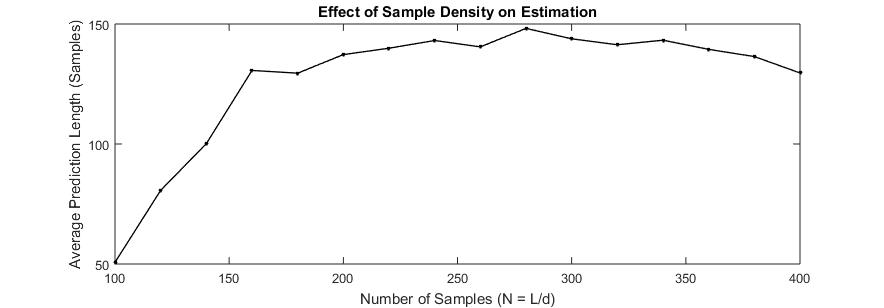
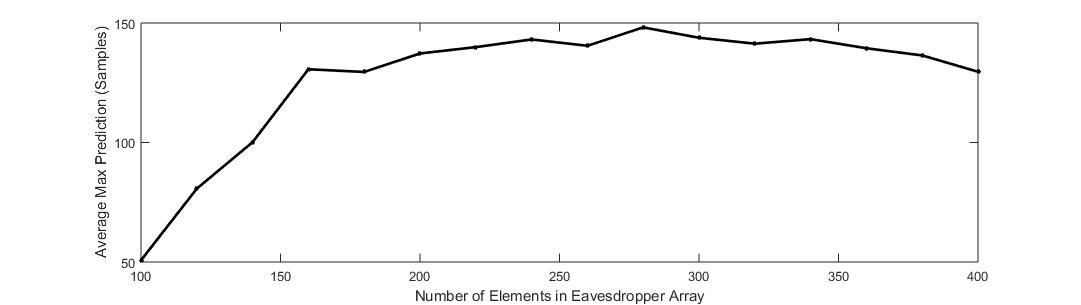
RC 1 for the  paper
Done except for some minor edits. Questions still remain about how the
spacing effects the scenario

diff --git a/PL-Security-Paper.tex b/PL-Security-Paper.tex
@@ -84,7 +84,7 @@ This discussion has provided a lower bound and an upper bound on the mutual info
 %belongs to Eric
 As discussed in Section \ref{mutualinfo}, channel information may persist over distances greater than the correlation length. Therefore, long-range prediction techniques as in \cite{duel-hallen2007} may be applied to predict the channel from spatial samples. Rather than using long-range prediction to predict the channel transfer function ahead temporally as is the typical usage, it is predicted spatially.
 
-It is assumed that the eavesdropper has knowledge of the location of one of the legitimate nodes, and has the ability to take a number of spatial samples along a line in the direction of that node.  Previous literature \cite{duel-hallen2007} has shown that spectral estimation can be applied to a temporal prediction scenario by estimating channel parameters and predicting the channel by constructing a new model of it. In that literature it is shown to be accurate within a Doppler wavelength as long as the channel parameters varied slowly. It is expected that spatial sampling and spectral estimation is a reasonable approach for an eavesdropper to take in estimating the channel at a distance. 
+It is assumed that the eavesdropper has knowledge of the location of one of the legitimate nodes, and has the ability to take a number of spatial samples along a line in the direction of that node.  Previous literature \cite{duel-hallen2007} has shown that spectral estimation can be applied to a temporal prediction scenario by estimating channel parameters and predicting the channel by constructing a new model of it. In experimental implementation with real-world channels, the channel parameters varied slowly enough that this prediction method was accurate within a Doppler wavelength. Therefore, it is a reasonable approach for the eavedropper to reconstruct the channel with parameter estimation using spatial sampling and spectral estimation. 
 
 %In temporal prediction applications, it has been observed that time variation of the amplitudes and frequencies in the sum-of-sinusoids model is on the order of 0.1 seconds \cite{duel-hallen2007}. 
 
@@ -95,9 +95,9 @@ It is assumed that the eavesdropper has knowledge of the location of one of the 
 \end{center}
 \end{figure}
 
-The channel model is shown in Figure \ref{scene}. Alice is the transmitter, and the desired estimation location at Bob. Eve is an array of sample readings taken in line with the listener. Scatterers are represented by the objects between Alice and Bob. It has been observed that most real world channels contain less than 10 large scatterers \cite{duel-hallen2000}. 
+The channel model is shown in Figure \ref{scene}. Alice and Bob are both trancievers. Eve is an eavesdropper sampling array in line with Bob. Scatterers are represented by the objects between Alice and Bob. It has been observed that most real world channels contain less than 10 large scatterers \cite{duel-hallen2000}. 
 
-In the simulation it is assumed that the sender Alice and all the scatterers reside in the far field of the eavesdropper array as well as the desired estimation location. The eavesdropper uses direction of arrival techniques to estimate the amplitudes and spatial frequencies of the scattering paths. Once the eavesdropper estimates the channel parameters, it uses them to reconstruct the channel transfer function. To achieve this an array of samples of length $Md+qd$ is constructed, where $d$ is the spacing between measurements, $M$ is the number of spatial samples, and $q$ is the number of sample lengths ahead the eavesdropper would like to predict. 
+In the simulation it is assumed that the sender Alice and all the scatterers reside in the far field of the eavesdropper array as well as the desired estimation location. The eavesdropper uses direction of arrival techniques to estimate the amplitudes and spatial frequencies of the scattering paths. Once the eavesdropper estimates the channel parameters, it uses them to reconstruct the channel transfer function. To achieve this an array of samples of length $Md$ is constructed, where $d$ is the spacing between measurements, $M$ is the number of spatial samples. The eavesdropper is intending to reconcruct the channel out to a length of $(M+q)d$, where $q$ is the distance between the end of the sampling array and Bob. 
 
 Equation \ref{chan} describes the channel transfer function along the line of eavesdropper samples.
 
@@ -109,22 +109,22 @@ H_m= \sum_{n=1}^N \alpha_n e^{-j(k_n)md}
 
 The solution to the parameter estimation problem can be broken into two parts: estimating the wave numbers $k_n$ , then estimating the complex amplitudes $\alpha_n$. The simulated eavesdropper uses the rootMUSIC algorithm supplied in MATLAB to determine the spatial frequencies of the scattering paths \cite{matlab}. RootMUSIC uses eigenvalue analysis of the channel's correlation matrix to estimate the signal's frequency content. The specific command used takes the sampling results as well as a threshold value which serves to separate the noise subspace from the signal subspace. It then estimates the discrete frequency spectrum, as well as providing the signal power. 
 
-In order to determine complex amplitude we used the method described in \cite{andersen1999}. The spectral estimation algorithm determines the spatial frequency of each scattering path. Constant spatial sampling is used, so (\ref{chan}) is simplified to determine the signal poles $z_n$.
+In order to determine complex amplitude we used the method described in \cite{andersen1999}. The spectral estimation algorithm determines the spatial frequency of each scattering path. Constant spatial sampling is used, so (\ref{chan}) is simplified by substituting the signal poles $z_n$ for the complex exponentials.
 
 \begin{equation}\label{complexamp}
-H_m = \sum_{n=1}^N \alpha_n e^{-j(k_n)md} = \sum_{n=1}^N \alpha_n z_n^m
+h_m = \sum_{n=1}^N \alpha_n e^{-j(k_n)md} = \sum_{n=1}^N \alpha_n z_n^m
 \end{equation}
 
-Based on the estimated values of the signal poles, the complex amplitudes can be derived by solving the following linear equations.
+Based on the estimated values of the signal poles, the complex amplitudes can be derived by solving the following linear equations. $\boldsymbol{A}$ is a Vandermonde matric of signal poles, where the $M^\mathrm{th}$ row contains all the poles raised to the $(M-1)^\mathrm{th}$ power. 
 
 \begin{equation}\label{matrix}
-h = A \alpha
+\mathbf{h} = \mathbf{A \boldsymbol{\alpha}}
 \end{equation}
 
-which is a system of linear equations of complex amplitude $\alpha^T = [\alpha_1, \alpha_2,... ,\alpha_M]$. The estimated complex amplitudes $\hat{\alpha}$ are then found by solving (\ref{matrix}) for $\alpha$ \cite{andersen1999}.
+which is a system of linear equations of complex amplitude $\boldsymbol{\alpha^T} = [\alpha_1, \alpha_2,... ,\alpha_M]$. The estimated complex amplitudes $\hat{\alpha}$ are then found by solving (\ref{matrix}) for $\alpha$ \cite{andersen1999}.
 
 \begin{equation}\label{ahat}
-\hat{\alpha}=(A^HA)^{-1}A^Hh
+\boldsymbol{\hat{\alpha}}=\boldsymbol{(A^HA)^{-1}A^Hh}
 \end{equation}
 
 
@@ -138,9 +138,10 @@ The weakness of using spectral estimation, and rootMUSIC in particular, is the s
 \section{Spatial Long-Range Channel Prediction Simulated Results}\label{simresults}
 %Should we take a baseline average prediction length at default values?
 
-Section \ref{prediction} described the signal estimation process. In this section a Monte Carlo simulation is run to evaluate the maximum estimation distance for the scenario with varying channel parameters. Each variable which shows impact on the estimation outcome is simulated 1000 times. An average is assembled for each swept variable in the Monte Carlo. During each of the 1000 runs the sample number at which the error of the estimation exceeds 5\% is recorded. From a default scenario each parameter is taken over a reasonable span to determine the estimation's sensitivity to that parameter. The resultant average sample values are plotted against each swept parameter. The cramer-rao lower bound presented in \cite{kckpVTC2015} was used to identify suitable parameters for a default simulation scenario.  %insert graphs and refer to them 
+Section \ref{prediction} described the signal estimation process. In this section a Monte Carlo simulation is used to evaluate the average maximum estimation distance for the scenario with varying channel parameters. Each value of each variable which shows impact on the estimation outcome is simulated 1000 times. An average is assembled for each swept variable in the Monte Carlo. During each of the 1000 runs the sample number at which the error of the estimation exceeds 5\% is recorded. This error is computed by assembling an array, which is populated for each sweeping variable by taking the max value of each pass, dividing it by the number of runs, then adding it to the value of that array position. From a default scenario each parameter is taken over a reasonable span to determine the estimation's sensitivity to that parameter. The resultant average sample values are plotted against each swept parameter. The Cram\`er-Rao lower bound presented in \cite{kckpVTC2015} was used to identify suitable parameters for a default simulation scenario.  %insert graphs and refer to them 
 
-For the Monte Carlo simulation tests 7 different variables. $N$, the number of samples taken, $d$ sample spacing in terms of wavelength, $S$ the number of scatterers, $O$ the number of observation snapshots, $P$ the maximum number of sinusoids that make up the rootMUSIC estimate, $T$ the threshhold value used in the rootMUSIC algorithm to seperate the signal and noise subspaces, and the signal-to-noise ratio $SNR$.
+%I changed the letter associations for agreement with earlier math.
+The Monte Carlo simulation tests 7 different variables: $M$ the number of samples taken; $d$ sample spacing in terms of wavelength; $N$ the number of scatterers; $O$ the number of observation snapshots; $P$ the maximum number of sinusoids that make up the rootMUSIC estimate; $T$ the threshhold value used in the rootMUSIC algorithm to seperate the signal and noise subspaces; $SNR$ the signal-to-noise ratio.
 
 %%%REFER TO VTC PAPER: "The CRLB expressions presented in \cite{**vtc**} were used to identify suitable parameters for a default simulation scenario.   ...more details and maybe graphs if we feel like it.  Putting this in its own subsection might be a good idea.
 
@@ -148,65 +149,74 @@ For the Monte Carlo simulation tests 7 different variables. $N$, the number of s
 \begin{figure}[ht!]
 \begin{center}
 \includegraphics[height=2in]{numMeasurements}
-\caption{Data showing the increase of sample desity improving estimation quality, then deteriorating past 300 samples. $L=40$ is the default length for this simulation and $d = 0.3\lambda$ as the default spacing interval}\label{N}
+\caption{Plot showing the increase of samples and array length improving the estimation quality, then deteriorating slightly past 300 samples. $d = 0.3\lambda$ is the default spacing interval}\label{M}
 \end{center}
 \end{figure}
 
-Each variable is tested individually against the default scenario. The figures to follow show the model's sensitivity to these variables. Figure \ref{N} show the number of samples in the eavesdropper's sampling array. This is actually a function of the length of the array over the spacing, $N = L/d$. It is shown that the minimum useful number of measurement points on the array is approximately 150 samples. Values over 300 begin to deteriorate, this is due to the default spacing $d = 0.3$. The sample points become too close compared to the length of the array and the quality of the estimation suffers slightly. 
+Each variable is tested individually against the default scenario. The figures show the model's sensitivity to these variables. Figure \ref{M} shows the number of samples in the eavesdropper's sampling array. It is shown that the quality of the estimation increases significantly up to approximately 160 samples, then levels off. 160 samples with a default spacing of $d = 0.3\lambda$ corresponds to 48$\lambda$. 
 %insert figure 1
 \begin{figure}[ht!]
 \begin{center}
 \includegraphics[height=2in]{wavelengths}
-\caption{Data showing the increased samples spacing with a constant array length. $L=40$ is the default length for this simulation and $N = L/d$ so the number of measurements decreases as the value of $d$ gets larger.}\label{spacing}
+\caption{Plot of the spacing between samples vs. the average maximum prediction length. At default values for the length of the array $L=40$, the spacing reaches an optimal level at $0.45\lamda$ }\label{spacing}
 \end{center}
 \end{figure}
 
-Figure \ref{spacing} is the spacing between measurements. There is a steady increase in the estimation quality of the array as the spacing increases. As explained before, the number of samples in a function of the length of the eavesdropper array and the spacing, so increased spacing reduces the number of samples taken. Reducing the number of samples appears to have little effect on the estimation quality as long as the array length remains constant.
+Figure \ref{spacing} shows the average maximum prediction length vs. spacing between measurements. There is a steady increase in the estimation quality of the array as the spacing increases. As explained before, the number of samples in a function of the length of the eavesdropper array and the spacing, so increased spacing reduces the number of samples taken. Reducing the number of samples appears to have little effect on the estimation quality as long as the array length remains constant.
 %insert fig 2
 \begin{figure}[ht!]
 \begin{center}
 \includegraphics[height=2in]{numScatterers}
-\caption{}\label{Scatter}
+\caption{Plot of scatterers vs. average max prediction length. More than 10 scatterers in the scenario minimizes the effectiveness of the estimation method.}\label{Scatter}
 \end{center}
 \end{figure}
 
-Figure \ref{Scatter} shows the number of scatterers in the scenario. Predictably, additional scattering paths increase the complexity of the estimation problem. With this eavesdropper configuration, there is a steep drop off in the quality of the estimation at 7 scatterers. This is consistent with the behavior predicted in \cite{kckpVTC2015}. 
+Figure \ref{Scatter} shows the number of scatterers in the scenario. Predictably, additional scattering paths increase the complexity of the estimation problem. With this eavesdropper configuration, there is a constant drop-off in the quality of the estimation, with near complete failure at 10 scatterers. This is consistent with the behavior predicted in \cite{kckpVTC2015}. This deterioration can be limited by an increase in SNR. 
 
 \begin{figure}[ht!]
 \begin{center}
-\includegraphics[height=2in]{wavelengths}
-\caption{}\label{SNR}
+\includegraphics[height=2in]{signalToNoise}
+\caption{This plot shows the SNR vs. average prediction length. Signal-to-noise ratio is the most important factor in the effectiveness of the estimation method.}\label{SNR}
 \end{center}
 \end{figure}
 
-Figure \ref{SNR} show an effort to increase the effective SNR of the signal. Averaging multiple observation snapshots of the same channel realization has a great impact on signal quality. Given the ability to take multiple observations the resultant estimation is very accurate. This figure shows that for the default scenario 100 snapshots is sufficient to significantly improve estimation performance. 
+Figure \ref{SNR} shows how increasing signal-to-noise ratio of the sampled signal greatly increases the estimation preformance and extends the averaged maximum prediction length. The default value for the simulations in all other tests was $13db$. Performance of the estimation drastically improves past $24db$, so rthe simulation uses averaged snapshots to increase the SNR.
 
 \begin{figure}[ht!]
 \begin{center}
-\includegraphics[height=2in]{wavelengths}
-\caption{}\label{thresh}
+\includegraphics[height=2in]{numSnapshots}
+\caption{Plot showing the number of snapshots averaged vs. average max prediction length. At 75 snapshots the estimation reaches the end of the sampling array, and by 100 snapshots the estimation is good enough to predict several wavelengths.}\label{snapshot}
 \end{center}
 \end{figure}
 
-Figure \ref{thresh} is a modifier used by the rootMUSIC algorith to separate the signal subspace of the correlation matrix from the noise subspace. 
+Figure \ref{snapshot} shows the effect of one method to increase the effective SNR of the signal. Averaging multiple observation snapshots of the same channel realization has a great impact on signal quality. Given the ability to take multiple observations the resultant estimation is very accurate. This figure shows that for the default scenario 100 snapshots, which is typical for Direction of Arrival applications, is sufficient to significantly improve estimation performance, raising the effective SNR to $33db$. 
 
 \begin{figure}[ht!]
 \begin{center}
-\includegraphics[height=2in]{wavelengths}
-\caption{}\label{sinusoid}
+\includegraphics[height=2in]{musicNoise}
+\caption{Plot showing the noise subspace threshold vs. prediction length. There is a general trend towards better quality of the estimate using higher noise threashold, however the improvement is unpredictable value to value.}\label{thresh}
 \end{center}
 \end{figure}
 
-Figure \ref{sinusoid} shows the number of component sinusoids that make up the MUSIC estimate. This variable is very sensitive to being far more or less than the actual number of sinusoids that make up a signal space. %What can I say about this? Any more than 5 times the number of scatterers and the prediction falls sharply?
+The rootMUSIC algorith uses this value to separate the signal subspace of the correlation matrix from the noise subspace. Eigenvalues below the threshold value $\lambda_{min} *thresh$ are assigned to the noise subspace\cite{matlab}. Figure \ref{thresh} shows the rootMUSIC modifier threshold plotted vs. the average maximum prediction length. %I don't really know what to say here. It's spiky, but I don't really know why 
+
+\begin{figure}[ht!]
+\begin{center}
+\includegraphics[height=2in]{numSinusoids}
+\caption{Plot showing the maximum dimension of the signal subspace vs. average maximum prediction length. This graph show a strong improvement over the first 15 values, then levels out.}\label{sinusoid}
+\end{center}
+\end{figure}
+
+Figure \ref{sinusoid} shows the second modifier value for the rootMUSIC algorithm. This value specifies the maximum dimension of the signal subspace. For the default scenario, a value of 20 is optimal for prediction length.
 %describe the channel simulation (very similar to problem setup from previous section) - what did we assume about the problem geometry - how are the angles distributed? (uniformly) what is f_doppler/f_c?
 
 %find average prediction length and how it varies for different values of $d$ (element spacing in E), $N$ (number of elements in E), and $S$ (number of scatterers) - include figures 
 
 \section{Conclusion}
 
-It can be concluded that by applying long-range prediction to estimate the channel transfer function that an eavesdropper could reconstruct a signal more than a correlation lenth away from the receiver's position.  This indicates that the minimum safe distance for secure key generation based on wireless fading must be reexamined.
+It can be concluded by applying long-range prediction to estimate the channel transfer function that an eavesdropper could reconstruct a signal more than a correlation lenth away from the receiver's position.  This indicates that the minimum safe distance for secure key generation based on wireless fading must be reexamined.
 
-In order to achieve this in the scenario constructed here the eavesdropper must know details about the environment, specifically the location of a transmission node. Besides knowledge, an array of sufficient complexity to conduct this work would have to have a certain degree of complexity. 
+In order to achieve this in the scenario constructed here the eavesdropper must know details about the environment, specifically the location of Bob. Besides knowledge, the eavesdropper would have to posses a sophisticated sampling array and the processing power to conduct the estimation.%what else?
 
 
 %our analysis is potentially pessimistic because we assume the channel parameters don't change within the sampling interval - however, it may be possible to extend the estimation to include both the channel parameters and their first derivatives.  CRLB will increase because it usually increases with additional parameters.
